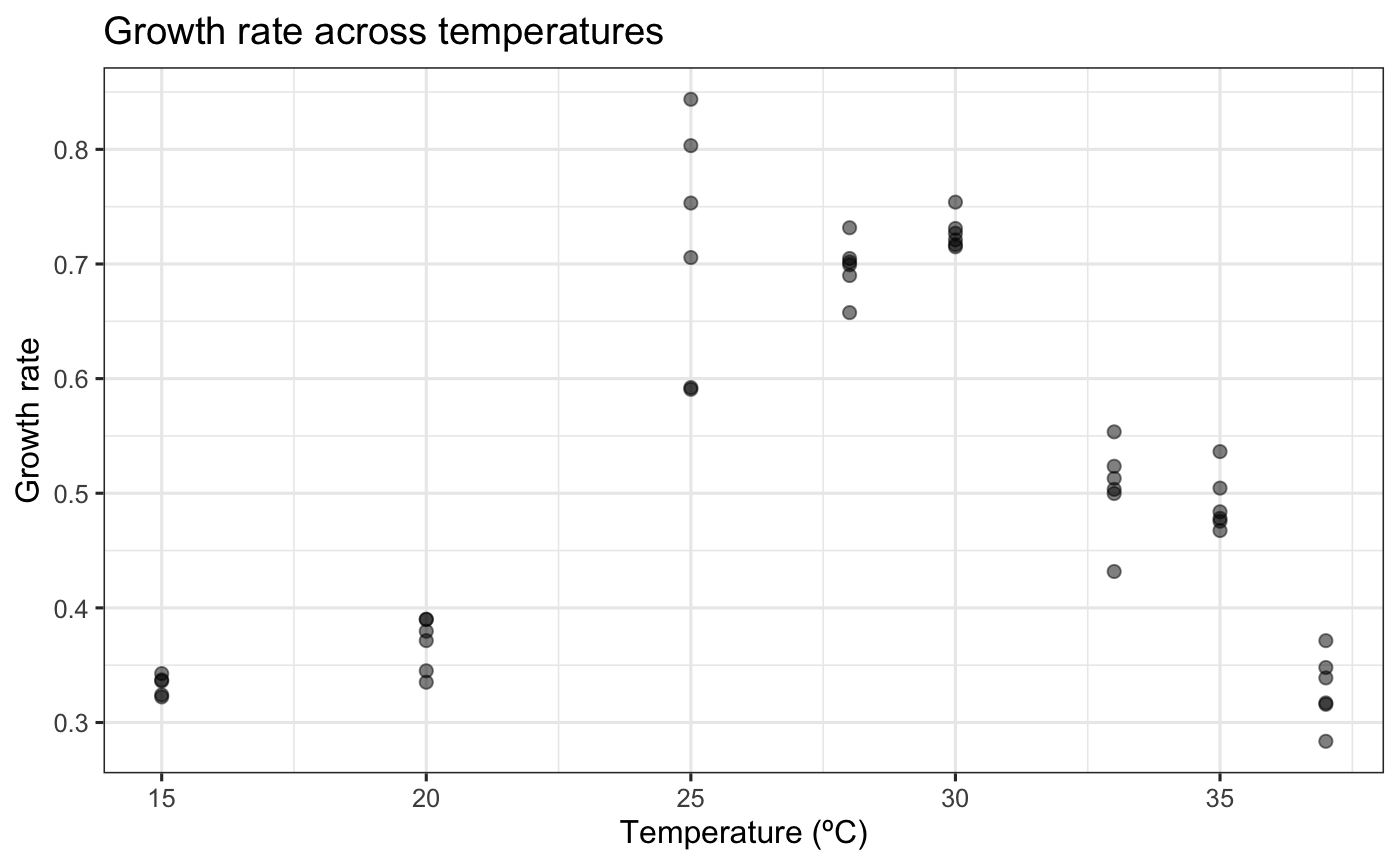
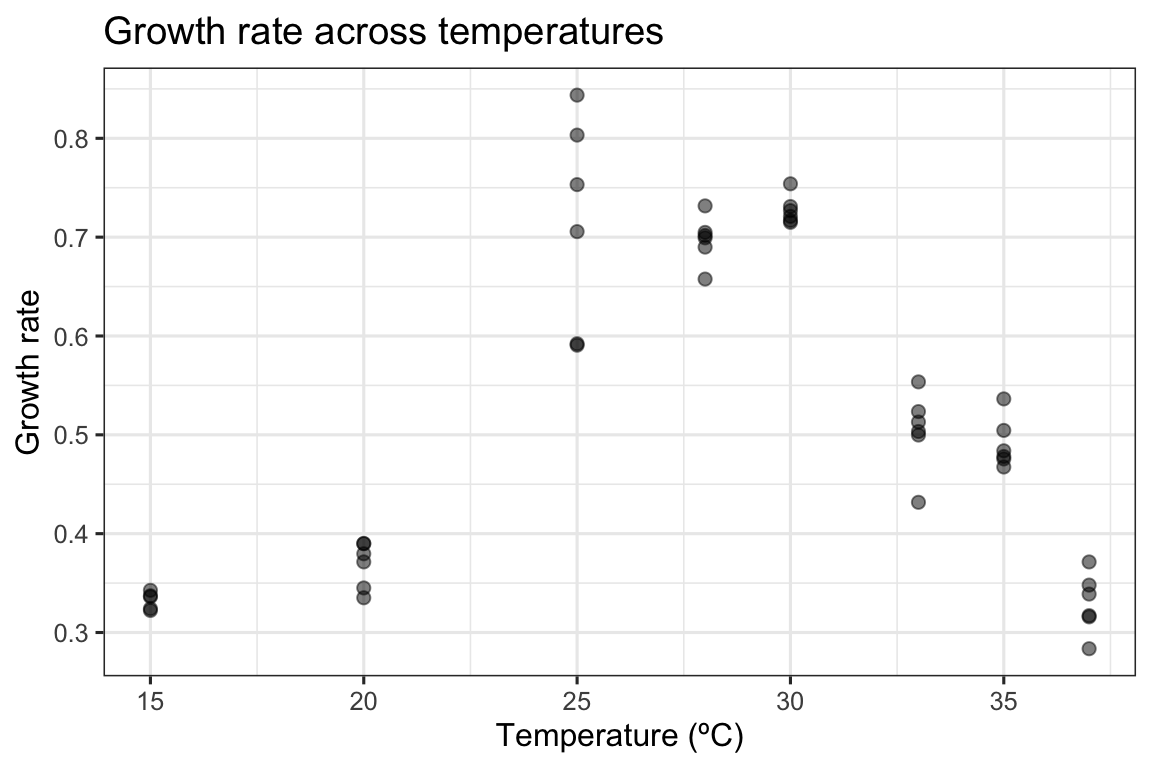
Update bootstrapping models

diff --git a/docs/articles/bootstrapping_models.html b/docs/articles/bootstrapping_models.html
@@ -108,7 +108,7 @@
       <h1 data-toc-skip>Bootstrapping using rTPC</h1>
                         <h4 class="author">Daniel Padfield</h4>
             
-            <h4 class="date">2020-06-16</h4>
+            <h4 class="date">2020-06-17</h4>
       
       <small class="dont-index">Source: <a href="https://github.com/padpadpadpad/rTPC/blob/master/vignettes/bootstrapping_models.Rmd"><code>vignettes/bootstrapping_models.Rmd</code></a></small>
       <div class="hidden name"><code>bootstrapping_models.Rmd</code></div>
@@ -172,7 +172,7 @@
   <span class="fu">labs</span>(<span class="kw">x</span> <span class="kw">=</span> <span class="st">'Temperature (ºC)'</span>,
        <span class="kw">y</span> <span class="kw">=</span> <span class="st">'Growth rate'</span>,
        <span class="kw">title</span> <span class="kw">=</span> <span class="st">'Growth rate across temperatures'</span>)</pre></body></html></div>
-<p><img src="bootstrapping_models_files/figure-html/load_data-1.png" width="700" style="display: block; margin: auto;"></p>
+<p><img src="bootstrapping_models_files/figure-html/load_data-1.png" width="576" style="display: block; margin: auto;"></p>
 <p>As in the study, we can fit the Sharpe-Schoolfield model to the data and plot the predictions using the approaches in <code>vignette(rTPC)</code> and <code>vignette(fit_many_models)</code>.</p>
 <div class="sourceCode" id="cb3"><html><body><pre class="r"><span class="co"># fit Sharpe-Schoolfield model</span>
 <span class="no">d_fit</span> <span class="kw">&lt;-</span> <span class="fu">nest</span>(<span class="no">d</span>, <span class="kw">data</span> <span class="kw">=</span> <span class="fu"><a href="https://rdrr.io/r/base/c.html">c</a></span>(<span class="no">temp</span>, <span class="no">rate</span>)) <span class="kw">%&gt;%</span>
